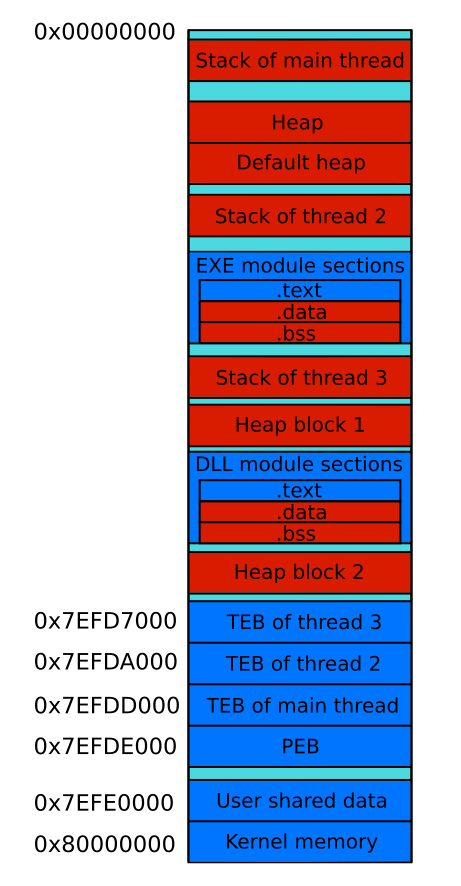
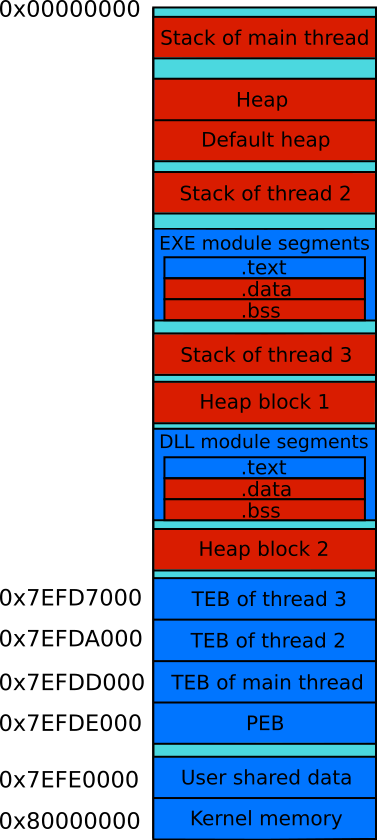
- Minor fix of the "process-memory-scheme.png" picture - Describe the OllyDbg screenshots

diff --git a/InGameBots/process-memory-analyzing.md b/InGameBots/process-memory-analyzing.md
@@ -36,7 +36,7 @@ This is a brief description of the each segment on the scheme:
 | EXE module `.data` | Contains not constant [**globals**](https://en.wikipedia.org/wiki/Global_variable) and [**static variables**](https://en.wikipedia.org/wiki/Static_variable) of the EXE module that have pre-defined values |
 | EXE module `.bss` | Contains not constant globals and static variables of the EXE module that have not pre-defined values |
 | Stack of thread 3 | Contains call stack, function parameters and automatic variables that are specific for thread 3 |
-| Heap block 1 | Dynamic heap that have been created by [**heap manager**](http://wiki.osdev.org/Heap) after the default heap reached the maximum available size |
+| Heap block 1 | Dynamic heap that have been created by [**heap manager**](http://wiki.osdev.org/Heap) when the default heap has reached a maximum available size. This heap extends the default heap. |
 | DLL module `.text` | Contains executable instructions of the DLL module |
 | DLL module `.data` | Contains not constant globals and static variables of the DLL module that have pre-defined values |
 | DLL module `.bss` | Contains not constant globals and static variables of the DLL module that have not pre-defined values |
@@ -48,7 +48,9 @@ This is a brief description of the each segment on the scheme:
 | User shared data | Contains memory that is shared by current process with other processes |
 | Kernel memory | Contains memory that is reserved by OS purposes like device drivers and system cache |
 
-Segments that can store a state of game's objects are market by red color in the scheme. Base addresses of these segments are assigned at the moment of application's start. It means that these addresses will differ each time when you launch an application. Moreover, sequence of these segments in the process's memory is not predefined too.
+TODO: Write about segments with fixed base addresses.
+
+Segments that are able to store a state of a game's objects are market by red color in the scheme. Base addresses of these segments are assigned at the moment of application's start. It means that these addresses will differ each time when you launch an application. Moreover, sequence of these segments in the process's memory is not predefined too.
 
 OllyDbg debugger allows you to get memory map of the working process. This is a screenshot of this memory map analyzing feature of the debugger:
 
@@ -56,7 +58,22 @@ OllyDbg debugger allows you to get memory map of the working process. This is a 
 
 ![OllyDbg Memory Map Tail](ollydbg-mem-map-2.png)
 
-TODO: Add a brief description of the screenshots.
+First screenshot represent a beginning of the process's address space. There is an end of process's address space at the second screenshot. You can see the same segments on the screenshots as ones in the scheme:
+
+| Address | Segment |
+| -- | -- |
+| 001ED000 | Stack of main thread |
+| 004F0000 | Heap |
+| 00530000 | Default heap |
+| 00ACF000<br>00D3E000<br>0227F000 | Stacks of additional threads |
+| 00D50000-00D6E000 | Segments of the EXE module with "ConsoleApplication1" name |
+| 02280000-0BB40000<br>0F230000-2BC70000 | Dynamic heap blocks |
+| 0F0B0000-0F217000 | Segments of the DLL module with "ucrtbased" name |
+| 7EFAF000<br>7EFD7000<br>7EFDA000 | TEB of additional threads |
+| 7EFDD000 | TEB of main thread |
+| 7EFDE000 | PEB of main thread |
+| 7FFE0000 | User shared data |
+| 80000000 | Kernel memory |
 
 ## Variables Searching
 
